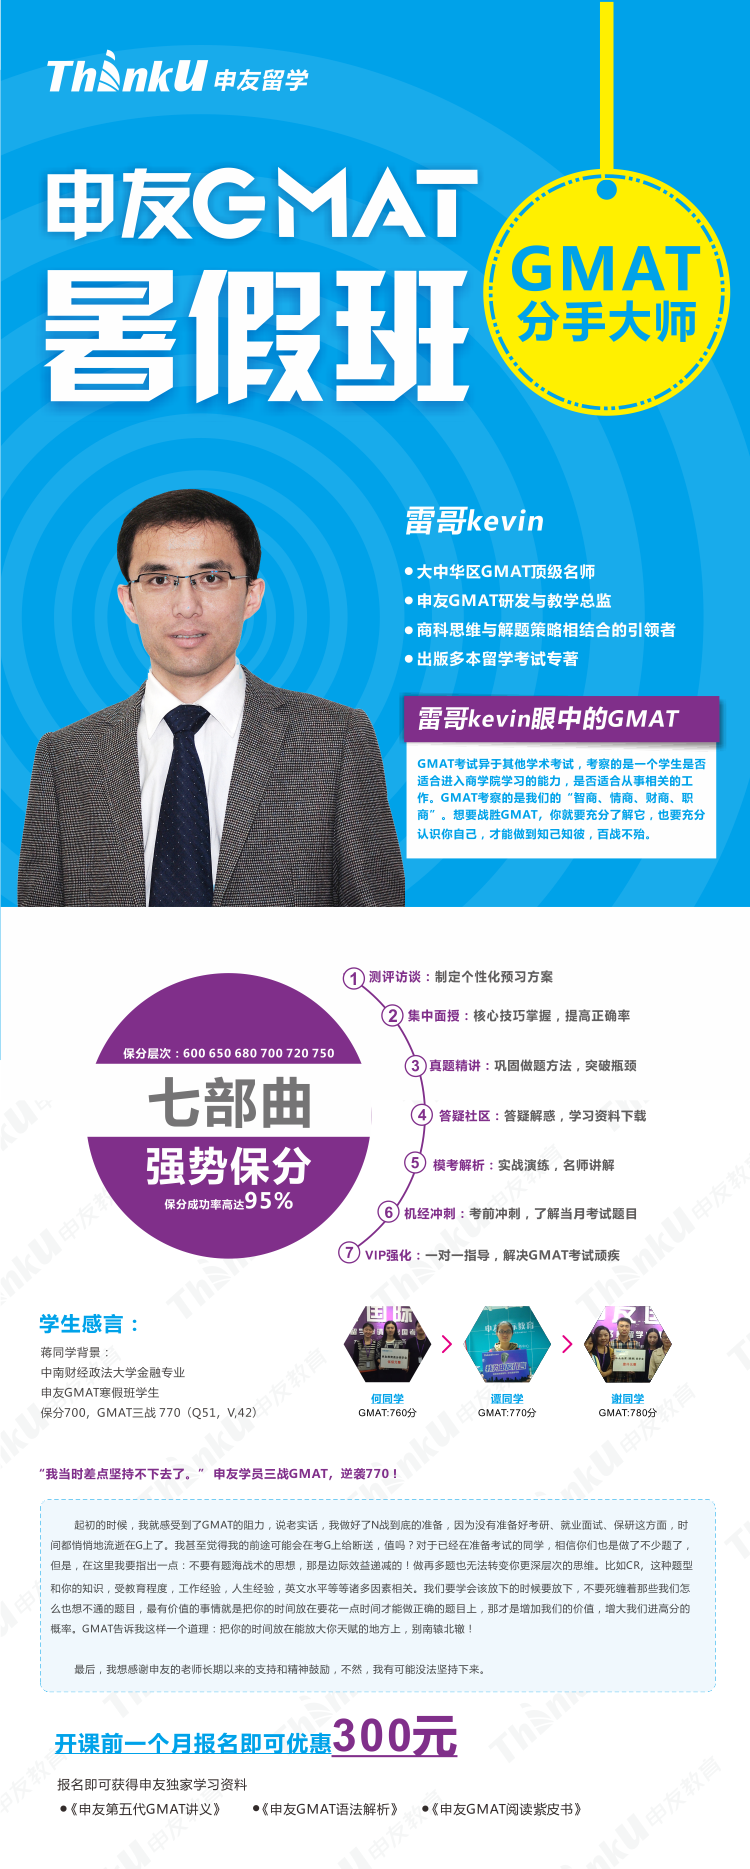
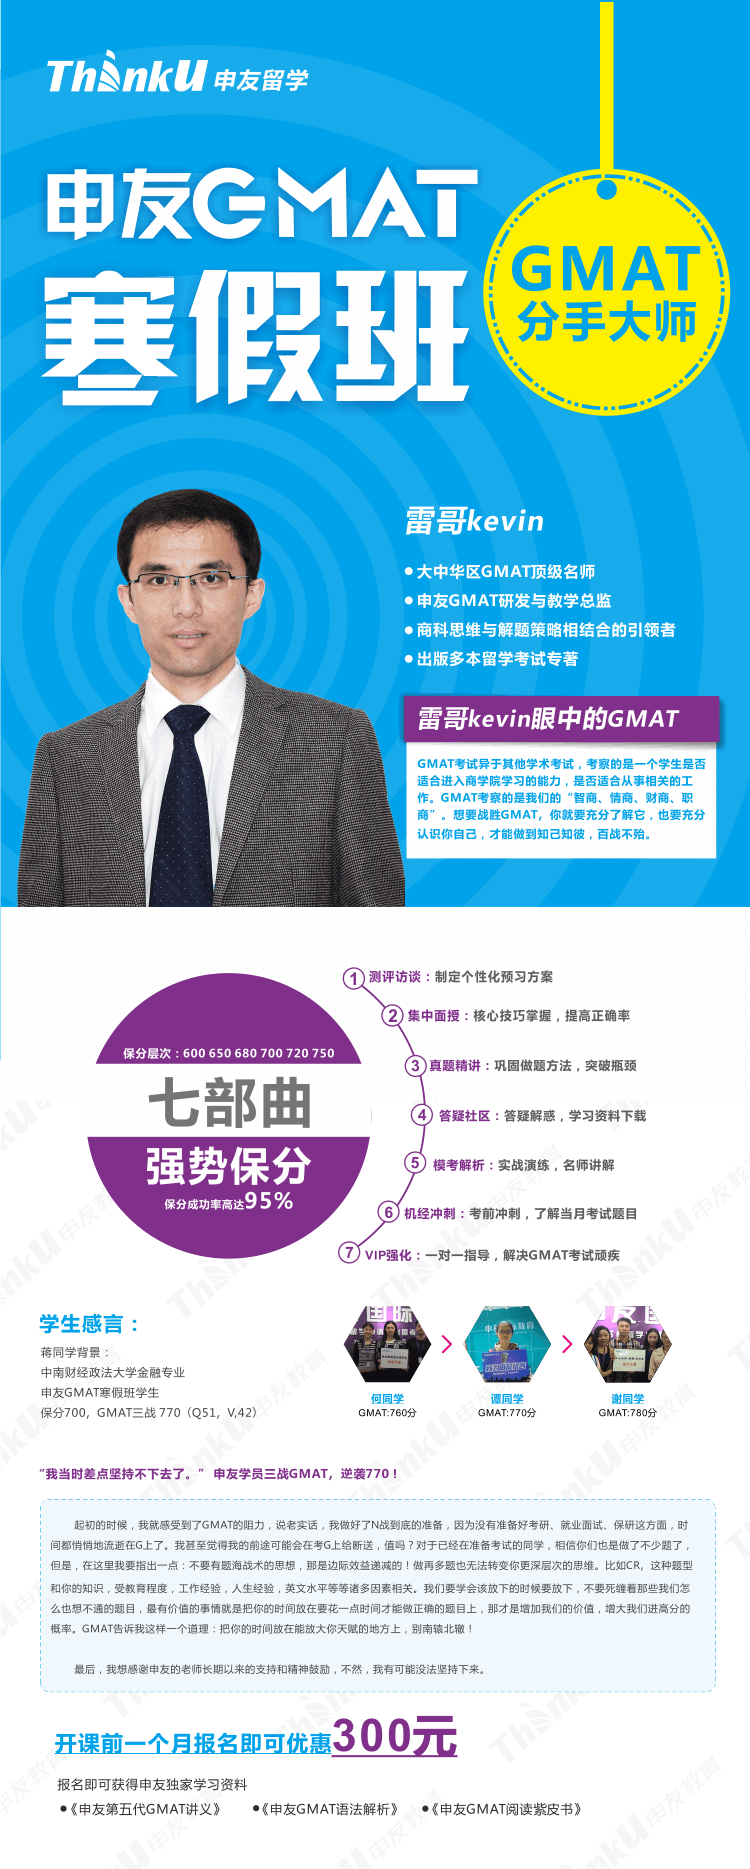
gmat班级修改

Changed region(s): [[0.0613, 0.1241, 0.2453, 0.2172]]

diff --git a/modules/wap/views/gmatsheet/summer.php b/modules/wap/views/gmatsheet/summer.php
@@ -44,7 +44,7 @@
 <header class=" pd-0 bg-1">
     <div class="header-2">
         <a class="tb tl" href="javascript:history.go(-1)"><img class="reBack" src="/wap/images/reBack.png" alt=""></a>
-        <span class=" tb header-tit tm">GMAT暑期班</span>
+        <span class=" tb header-tit tm">GMAT寒假班</span>
         <a class="tr tb" href="menu.html">
             <img class="menu-icon" src="/wap/images/menu.png" alt="">
         </a>

diff --git a/modules/wap/views/gmatsheet/index.php b/modules/wap/views/gmatsheet/index.php
@@ -229,7 +229,7 @@
         </li>
         <li>
             <img src="/wap/images/ct-11.png" alt="">
-            <p class="ani ellipsis ct-teacher-name">Phoebe</p>
+            <p class="ani ellipsis ct-teacher-name">Sharron</p>
         </li>
         <li>
             <img src="/wap/images/ct-12.png" alt="">

diff --git a/modules/wap/views/toeflsheet/index.php b/modules/wap/views/toeflsheet/index.php
@@ -143,7 +143,7 @@
         </li>
         <li>
             <img src="/wap/images/ct-11.png" alt="">
-            <p class="ani ellipsis ct-teacher-name">Phoebe</p>
+            <p class="ani ellipsis ct-teacher-name">Sharron</p>
         </li>
         <li>
             <img src="/wap/images/ct-12.png" alt="">
